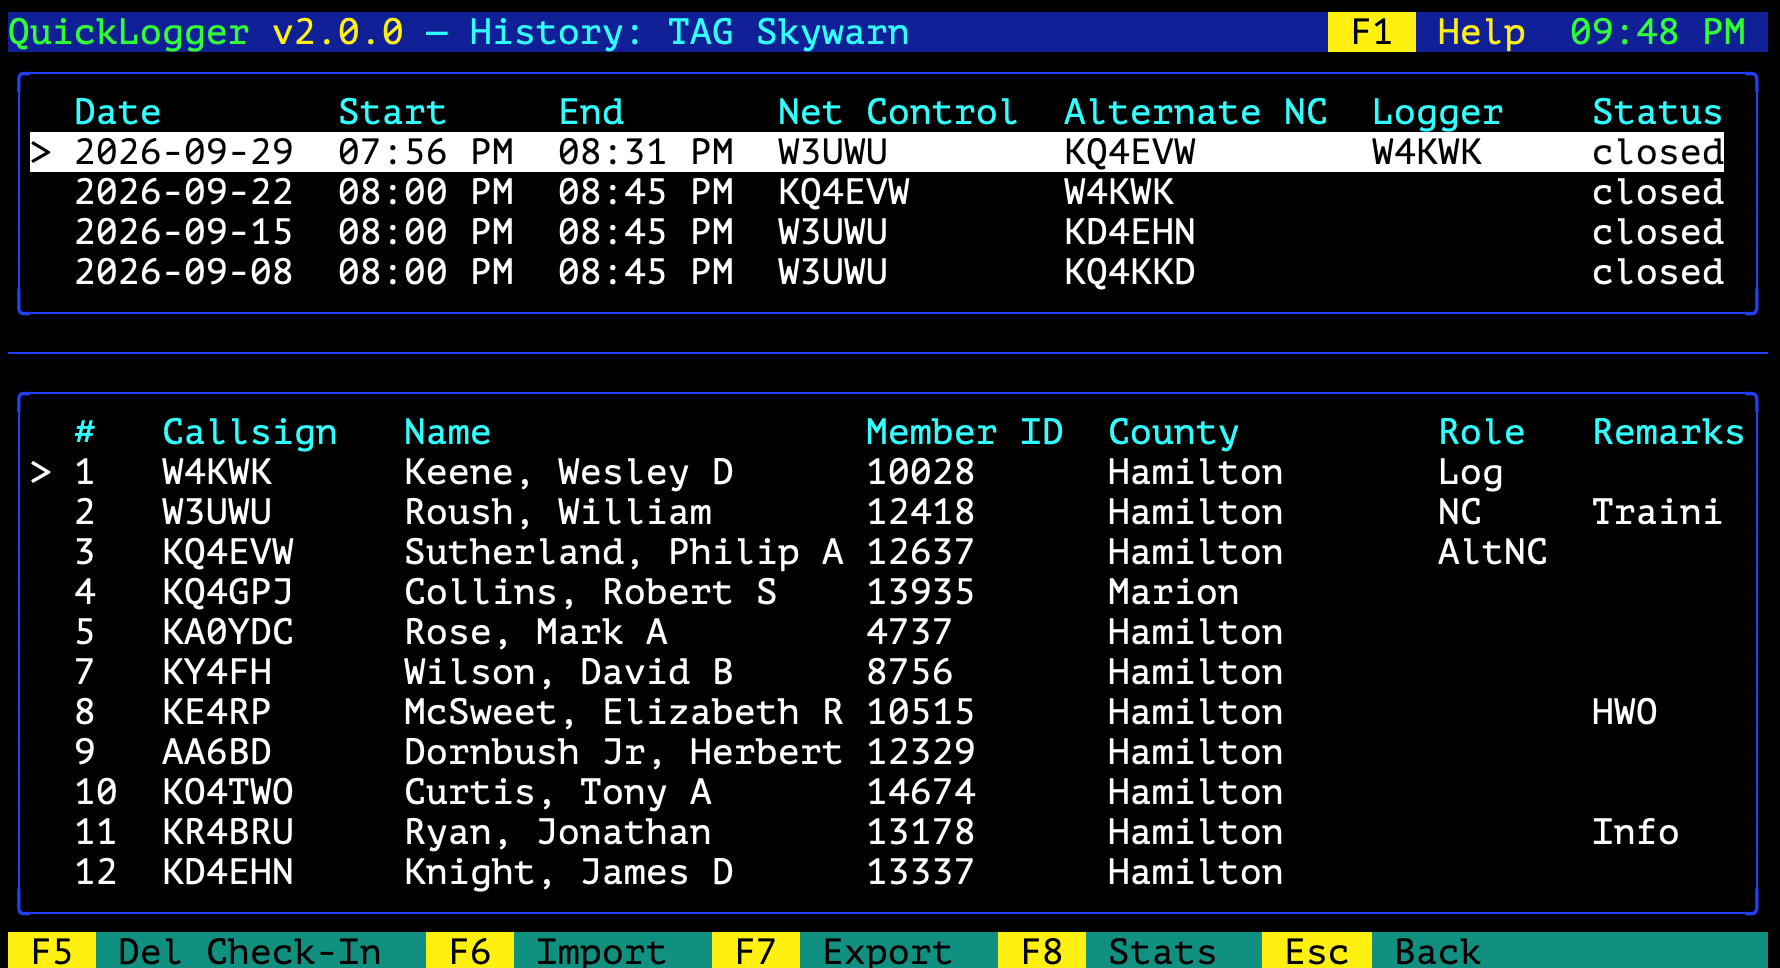
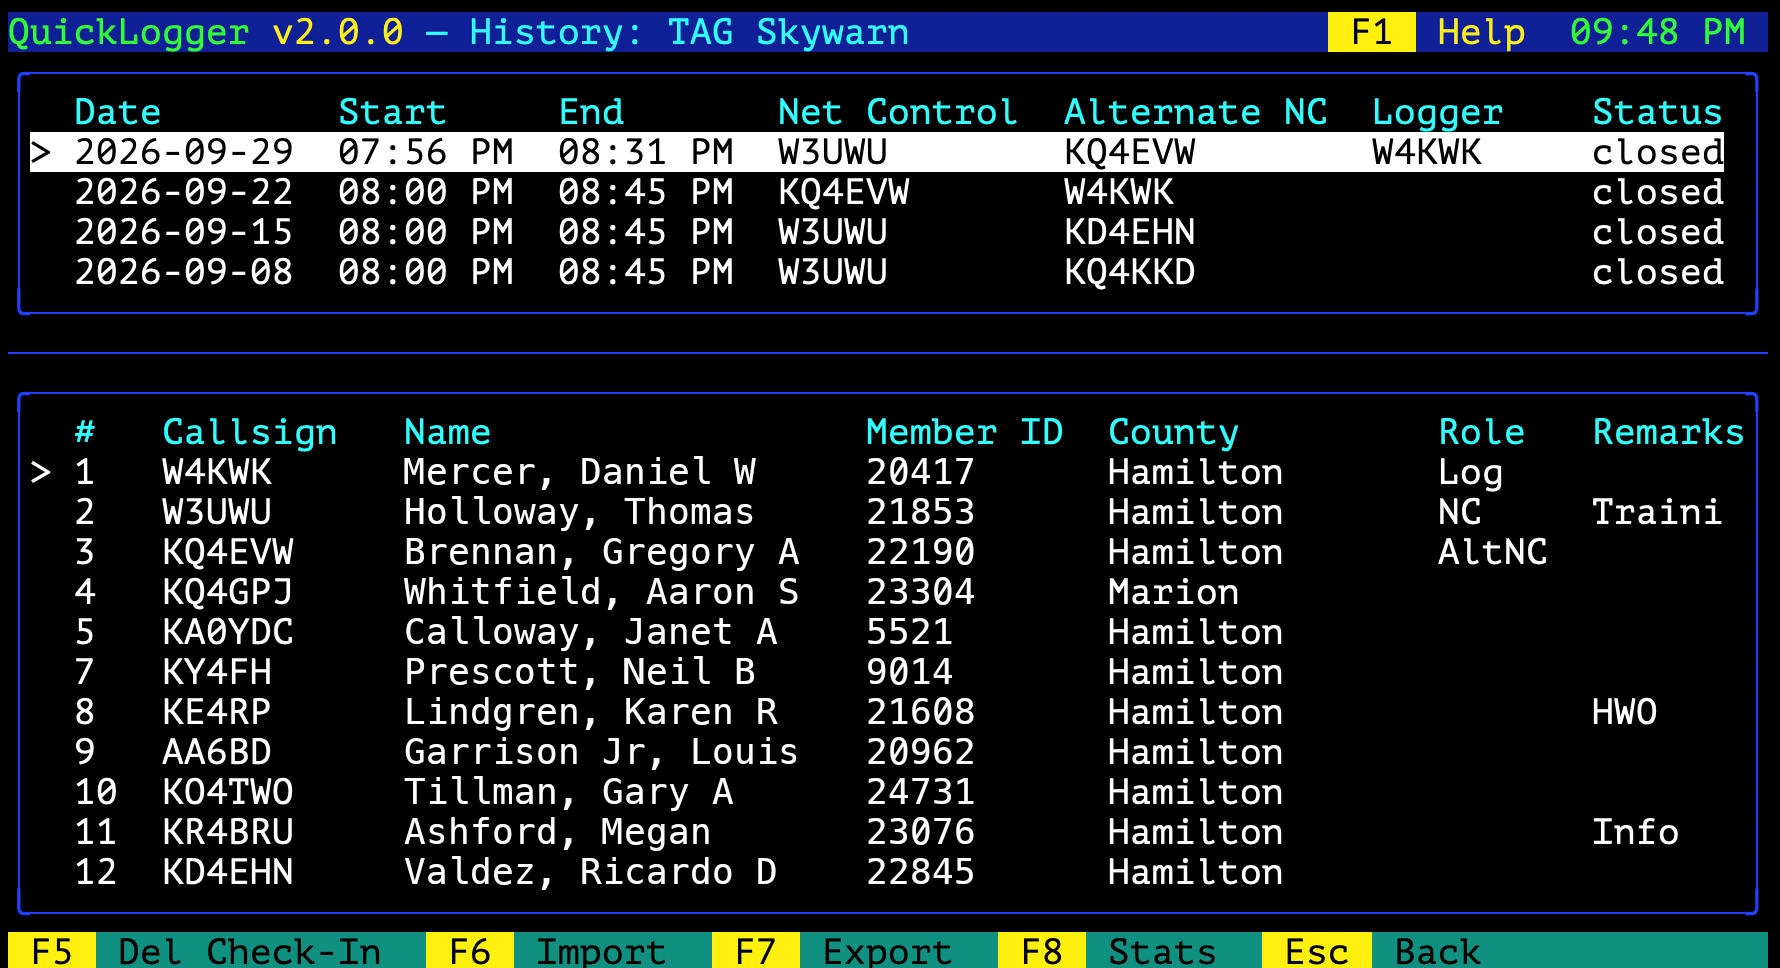
README: autocomplete and History screenshots, with made-up names and member IDs
Claude-Session: https://claude.ai/code/session_01E7BQq12YDhHTdYZDAfRETh

Changed region(s): [[0.2163, 0.4649, 0.5562, 0.9298]]

diff --git a/README.md b/README.md
@@ -10,10 +10,11 @@
 
 Type a few letters of a callsign and QuickLogger offers the stations your net already knows first, then licensed stations near you, nearest first. Pick one and the name, city, county and grid square fill in on their own. Run it on your own computer, or on one always-on server that your whole group logs into over SSH.
 
+![Autocomplete while logging a check-in: stations the net knows first, then licensed stations nearby with their distance](docs/images/screenshot-autocomplete.png)
+
 ![A net's History: its sessions above, the check-ins of the selected one below](docs/images/screenshot-history.png)
 
-<!-- TODO: add docs/images/screenshot-net.png (a running net with autocomplete showing), then uncomment: -->
-<!-- ![Autocomplete while logging a check-in](docs/images/screenshot-net.png) -->
+The names and member IDs in these screenshots are made up.
 
 ## Why QuickLogger
 

diff --git a/docs/images/README.md b/docs/images/README.md
@@ -2,4 +2,4 @@
 
 Screenshots and GIFs for the README and the guides go here.
 
-The README expects `screenshot-net.png`: a running net, with the check-in list and the autocomplete matches showing.
+The names and member IDs in the screenshots are made up. Call signs are real.
